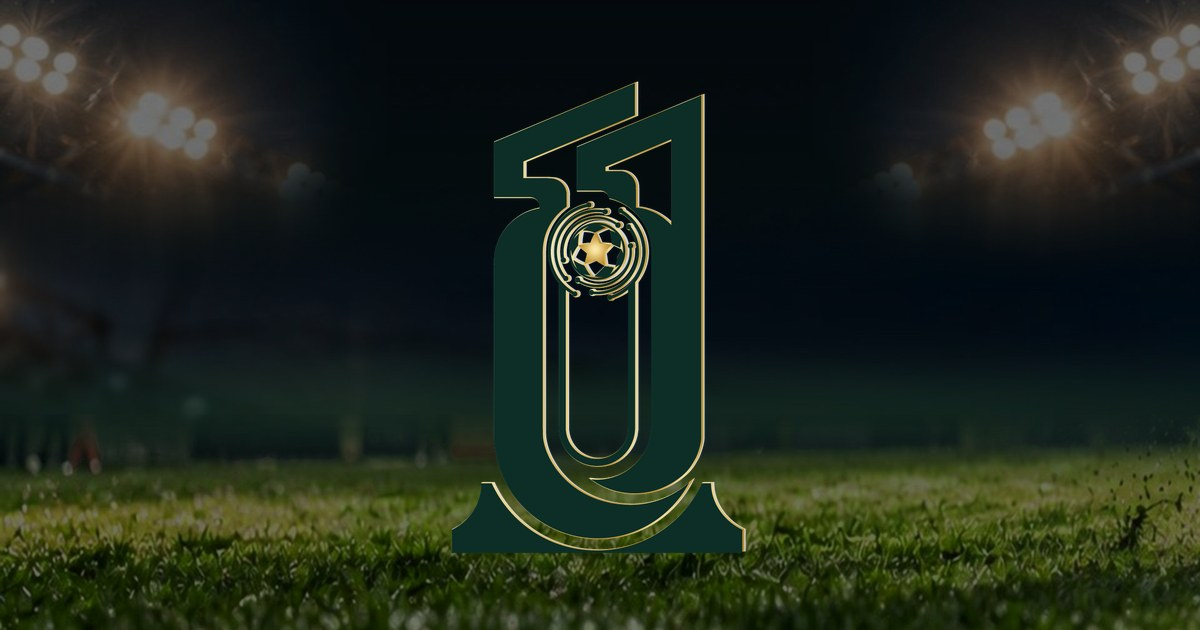
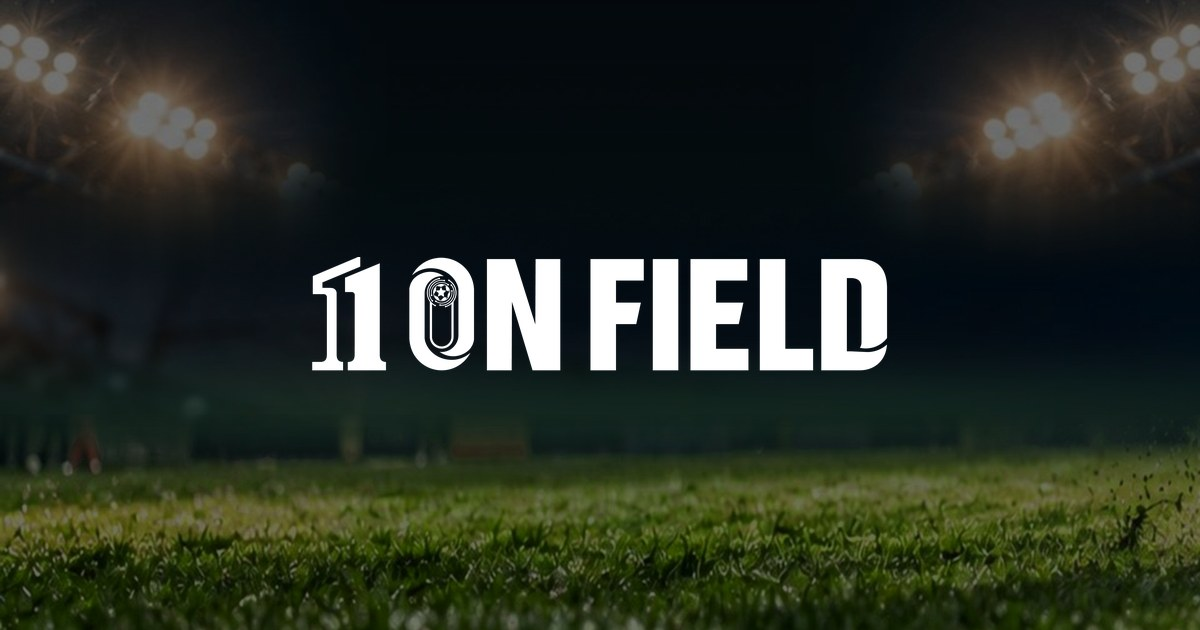
Card ring on the chamfered edges too, profile preview keeps the top half of the card, white wordmark in previews; PRF is "Thông tin"
Claude-Session: https://claude.ai/code/session_01DkVifpSchkkpC4RZFYcYU9

Changed region(s): [[0.2467, 0.1206, 0.74, 0.8746]]

diff --git a/frontend-app/src/lib/og/PlayerCardImage.tsx b/frontend-app/src/lib/og/PlayerCardImage.tsx
@@ -26,6 +26,8 @@ export function PlayerCardImage({ p, photo, logo, width, t }: { p: PlayerView; p
   const c = 28 * u;
   const b = Math.max(2, 2 * u);
   const pad = 15 * u;
+  // stroked twice as wide as the ring: the outer half falls outside the card and is clipped away
+  const ring = `M${c} 0H${width}V${height - c}L${width - c} ${height}H0V${c}Z`;
   const name = p.name.toUpperCase();
   // the in-app card cuts a long name with an ellipsis; an image has room to shrink it instead
   const nameSize = Math.min(26, 205 / Math.max(1, name.length * 0.5)) * u;
@@ -37,16 +39,15 @@ export function PlayerCardImage({ p, photo, logo, width, t }: { p: PlayerView; p
   ];
 
   return (
-    <div style={{ position: 'relative', display: 'flex', width, height, background: RING, clipPath: cut(width, height, c) }}>
+    <div style={{ position: 'relative', display: 'flex', width, height, clipPath: cut(width, height, c) }}>
       <div
         style={{
           position: 'absolute',
-          left: b,
-          top: b,
-          width: width - 2 * b,
-          height: height - 2 * b,
+          left: 0,
+          top: 0,
+          width,
+          height,
           display: 'flex',
-          clipPath: cut(width - 2 * b, height - 2 * b, c - 0.586 * b),
           backgroundImage: 'linear-gradient(160deg, #46381a 0%, #2a2512 45%, #0f170e 100%)',
         }}
       >
@@ -64,7 +65,7 @@ export function PlayerCardImage({ p, photo, logo, width, t }: { p: PlayerView; p
           <img
             src={photo}
             alt=""
-            style={{ position: 'absolute', left: 0, top: 18 * u, width: width - 2 * b, height: 172 * u, objectFit: 'contain', objectPosition: 'bottom' }}
+            style={{ position: 'absolute', left: 0, top: 18 * u, width, height: 172 * u, objectFit: 'contain', objectPosition: 'bottom' }}
           />
         ) : (
           <div
@@ -140,6 +141,10 @@ export function PlayerCardImage({ p, photo, logo, width, t }: { p: PlayerView; p
           </div>
         </div>
       </div>
+      {/* gold ring drawn on top, so the chamfered edges get it too (.of-cut::before in the app) */}
+      <svg width={width} height={height} viewBox={`0 0 ${width} ${height}`} style={{ position: 'absolute', left: 0, top: 0 }}>
+        <path d={ring} fill="none" stroke={RING} strokeWidth={b * 2} />
+      </svg>
     </div>
   );
 }

diff --git a/frontend-app/src/app/profile/[userid]/card/route.tsx b/frontend-app/src/app/profile/[userid]/card/route.tsx
@@ -28,10 +28,22 @@ export async function GET(req: Request, { params }: { params: { userid: string }
   const headers = { 'Cache-Control': 'public, max-age=300, s-maxage=300' };
 
   if (og) {
+    // the card a bit smaller than the preview's width, so the crop keeps at least its top half (face, score and
+    // position); the strip on the right carries the logo
+    const cardWidth = 930;
+    const [wordmark, stadium] = await Promise.all([publicImage('images/logo-white-full.png'), publicImage('images/home/stadium-bg.jpg')]);
     return new ImageResponse(
       (
-        <div style={{ display: 'flex', width: OG_SIZE.width, height: OG_SIZE.height, background: '#0b170f', overflow: 'hidden' }}>
-          <PlayerCardImage p={p} photo={photo} logo={logo} width={OG_SIZE.width} t={t} />
+        <div style={{ position: 'relative', display: 'flex', width: OG_SIZE.width, height: OG_SIZE.height, background: '#07130c', overflow: 'hidden' }}>
+          {/* eslint-disable-next-line @next/next/no-img-element */}
+          <img src={stadium} alt="" style={{ position: 'absolute', inset: 0, width: OG_SIZE.width, height: OG_SIZE.height, objectFit: 'cover', opacity: 0.4 }} />
+          <div style={{ position: 'absolute', left: 0, top: 0, display: 'flex' }}>
+            <PlayerCardImage p={p} photo={photo} logo={logo} width={cardWidth} t={t} />
+          </div>
+          <div style={{ position: 'absolute', left: cardWidth, right: 0, top: 0, bottom: 0, display: 'flex', alignItems: 'center', justifyContent: 'center' }}>
+            {/* eslint-disable-next-line @next/next/no-img-element */}
+            <img src={wordmark} alt="" style={{ width: 220, height: 43 }} />
+          </div>
         </div>
       ),
       { ...OG_SIZE, fonts, headers },

diff --git a/frontend-app/src/i18n/messages/players.ts b/frontend-app/src/i18n/messages/players.ts
@@ -100,7 +100,6 @@ const players: Messages = {
   'Mã QR hồ sơ của {name}': ['Profile QR code of {name}', 'Código QR del perfil de {name}', '{name}님의 프로필 QR 코드'],
   'Quét bằng nút QR trong app để mở hồ sơ và theo dõi ngay.': ['Scan it with the QR button in the app to open the profile and follow right away.', 'Escanéalo con el botón QR de la app para abrir el perfil y seguirlo al instante.', '앱의 QR 버튼으로 스캔하면 프로필이 열리고 바로 팔로우됩니다.'],
   'Lưu ảnh QR': ['Save QR image', 'Guardar imagen QR', 'QR 이미지 저장'],
-  'Hoàn thiện': ['Completeness', 'Completitud', '완성도'],
   'Card cá nhân': ['Player card', 'Tarjeta de jugador', '선수 카드'],
   'Card cá nhân của {name}': ['Player card of {name}', 'Tarjeta de jugador de {name}', '{name} 선수 카드'],
   'Ảnh thẻ cầu thủ để tải về và đăng mạng xã hội': ['Your player card as a picture to save and post', 'Tu tarjeta de jugador en imagen para guardar y publicar', '저장하고 SNS에 올릴 수 있는 선수 카드 이미지'],

diff --git a/frontend-app/src/lib/players/stats.ts b/frontend-app/src/lib/players/stats.ts
@@ -33,7 +33,7 @@ export const PROFILE_LABELS: Record<string, string> = {
   FIT: 'Thể chất',
   EXP: 'Kinh nghiệm',
   SKL: 'Kỹ năng',
-  PRF: 'Hoàn thiện',
+  PRF: 'Thông tin',
   ACH: 'Thành tích',
   HLT: 'Highlight',
 };
